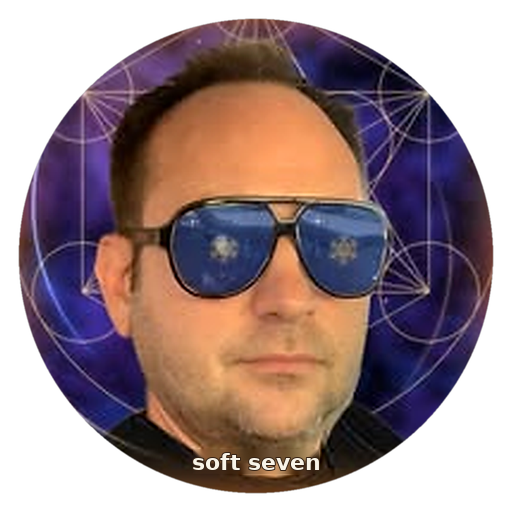
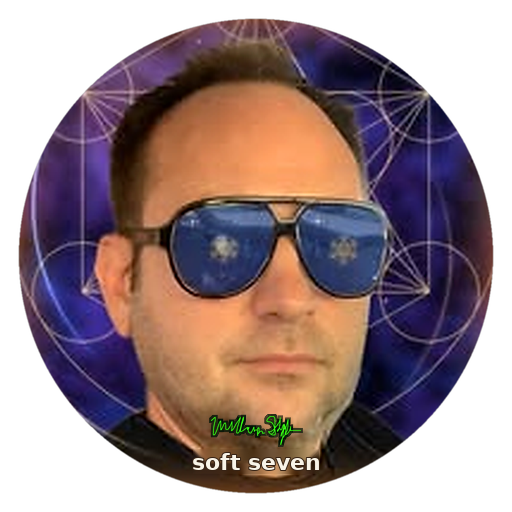
v6-test t7: real neon signatures and thirteen-sticker pool

Changed region(s): [[0.4062, 0.8125, 0.5938, 0.875]]

diff --git a/softmagic-stickers/v6-test/index.html b/softmagic-stickers/v6-test/index.html
@@ -95,12 +95,12 @@ dialog::backdrop{background:rgba(5,2,12,.92);backdrop-filter:blur(10px);-webkit-
 <canvas id="sky" aria-hidden="true"></canvas><div class="glow" aria-hidden="true"></div>
 <main>
 <div class="hero">
-<button class="orb" id="orb" aria-label="Tap to reveal your Soft Seven sticker"><span class="sw"></span><span class="in"><picture><img src="s/m/soft-magic-quiet-eye.gif?v=t6" width="320" height="320" alt="A phoenix inside a slowly opening eye"></picture></span></button>
+<button class="orb" id="orb" aria-label="Tap to reveal your Soft Seven sticker"><span class="sw"></span><span class="in"><picture><img src="s/m/soft-magic-quiet-eye.gif?v=t7" width="320" height="320" alt="A phoenix inside a slowly opening eye"></picture></span></button>
 <p class="word" id="reveal" role="button" tabindex="0">Tap</p>
 <button class="howl" id="howl">How to add</button>
 <button class="hbtn" id="hpull">✦ Holo Pull</button>
 </div>
-<div id="more" hidden><section><h2>The pack</h2><div class="grid" id="g"></div>
+<div id="more" hidden><section><h2>The pack · 13 stickers</h2><div class="grid" id="g"></div>
 <details class="how" id="how"><summary>Add these to your texts</summary>
 <h3>Send one now:</h3><ol><li>Tap a sticker to open it big, then press and hold it.</li><li>Tap Copy.</li><li>Open Messages, press and hold where you type, and tap Paste. The moving ones stay moving.</li></ol>
 <h3>Keep it as a sticker (iPhone with iOS 17 or later):</h3><ol><li>Press and hold a sticker and tap Save to Photos.</li><li>Open it in Photos, then press and hold the picture until it glows.</li><li>Tap Add Sticker. It now shows in Messages when you tap + and then Stickers.</li></ol>
@@ -114,7 +114,7 @@ dialog::backdrop{background:rgba(5,2,12,.92);backdrop-filter:blur(10px);-webkit-
 <p id="pr" hidden style="margin:0"><span class="hint">Print it, stick it, pass it on.</span></p>
 <button class="snd" id="snd" aria-pressed="false" aria-label="Chime off">♪ Chime off</button><p class="hint">Pass the spark. Press and hold the sticker to copy or save it.</p></div></dialog>
 <script>
-const S=[{"f": "soft-magic-william", "n": "William", "a": 1}, {"f": "soft-magic-quiet-eye", "n": "Quiet Eye", "a": 1}, {"f": "soft-magic-metatrons-cube", "n": "Metatron's Cube", "a": 1}, {"f": "soft-magic-seed-of-life", "n": "Seed of Life", "a": 1}, {"f": "soft-magic-flower-of-life", "n": "Flower of Life", "a": 1}, {"f": "soft-magic-phoenix-rising", "n": "Phoenix Rising", "a": 1}, {"f": "soft-magic-hooded-tiger", "n": "Hooded Tiger", "a": 1}, {"f": "soft-magic-dawn-fox", "n": "Dawn Fox", "a": 1}, {"f": "soft-magic-golden-owl", "n": "Golden Owl", "a": 1}, {"f": "soft-magic-gucci-glasses", "n": "Gold Glasses", "a": 1}, {"f": "soft-magic-starlight-raccoon", "n": "Starlight Raccoon", "a": 1}, {"f": "soft-magic-golden-wolf", "n": "Golden Wolf", "a": 1}, {"f": "soft-magic-rose-cube", "n": "Rose Cube", "a": 1}, {"f": "soft-magic-aurora-cube", "n": "Aurora Cube", "a": 1}],LINE="Seven soft lights, one quiet story \u2014 may it find you gently.",SECRET={f:"soft-magic-seventh-gate",n:"Seventh Gate",a:1},URL0="tigerwillca.github.io/softmagic-stickers",BEAT=10000,VER='t6';
+const S=[{"f": "soft-magic-william", "n": "William", "a": 1}, {"f": "soft-magic-quiet-eye", "n": "Quiet Eye", "a": 1}, {"f": "soft-magic-metatrons-cube", "n": "Metatron's Cube", "a": 1}, {"f": "soft-magic-seed-of-life", "n": "Seed of Life", "a": 1}, {"f": "soft-magic-flower-of-life", "n": "Flower of Life", "a": 1}, {"f": "soft-magic-phoenix-rising", "n": "Phoenix Rising", "a": 1}, {"f": "soft-magic-hooded-tiger", "n": "Hooded Tiger", "a": 1}, {"f": "soft-magic-dawn-fox", "n": "Dawn Fox", "a": 1}, {"f": "soft-magic-golden-owl", "n": "Golden Owl", "a": 1}, {"f": "soft-magic-gucci-glasses", "n": "Gold Glasses", "a": 1}, {"f": "soft-magic-starlight-raccoon", "n": "Starlight Raccoon", "a": 1}, {"f": "soft-magic-golden-wolf", "n": "Golden Wolf", "a": 1}, {"f": "soft-magic-rose-cube", "n": "Rose Cube", "a": 1}],LINE="Seven soft lights, one quiet story \u2014 may it find you gently.",SECRET={f:"soft-magic-seventh-gate",n:"Seventh Gate",a:1},URL0="tigerwillca.github.io/softmagic-stickers",BEAT=10000,VER='t7';
 const MQ=matchMedia('(prefers-reduced-motion: reduce)');let RM=MQ.matches;
 const $=i=>document.getElementById(i),g=$('g'),d=$('d');let cur=null,snd=false,ac=null;
 const src=s=>(s.a?'s/m/'+s.f+'.gif':'s/f/'+s.f+'.png')+'?v='+VER,ext=s=>s.a?'.gif':'.png';
